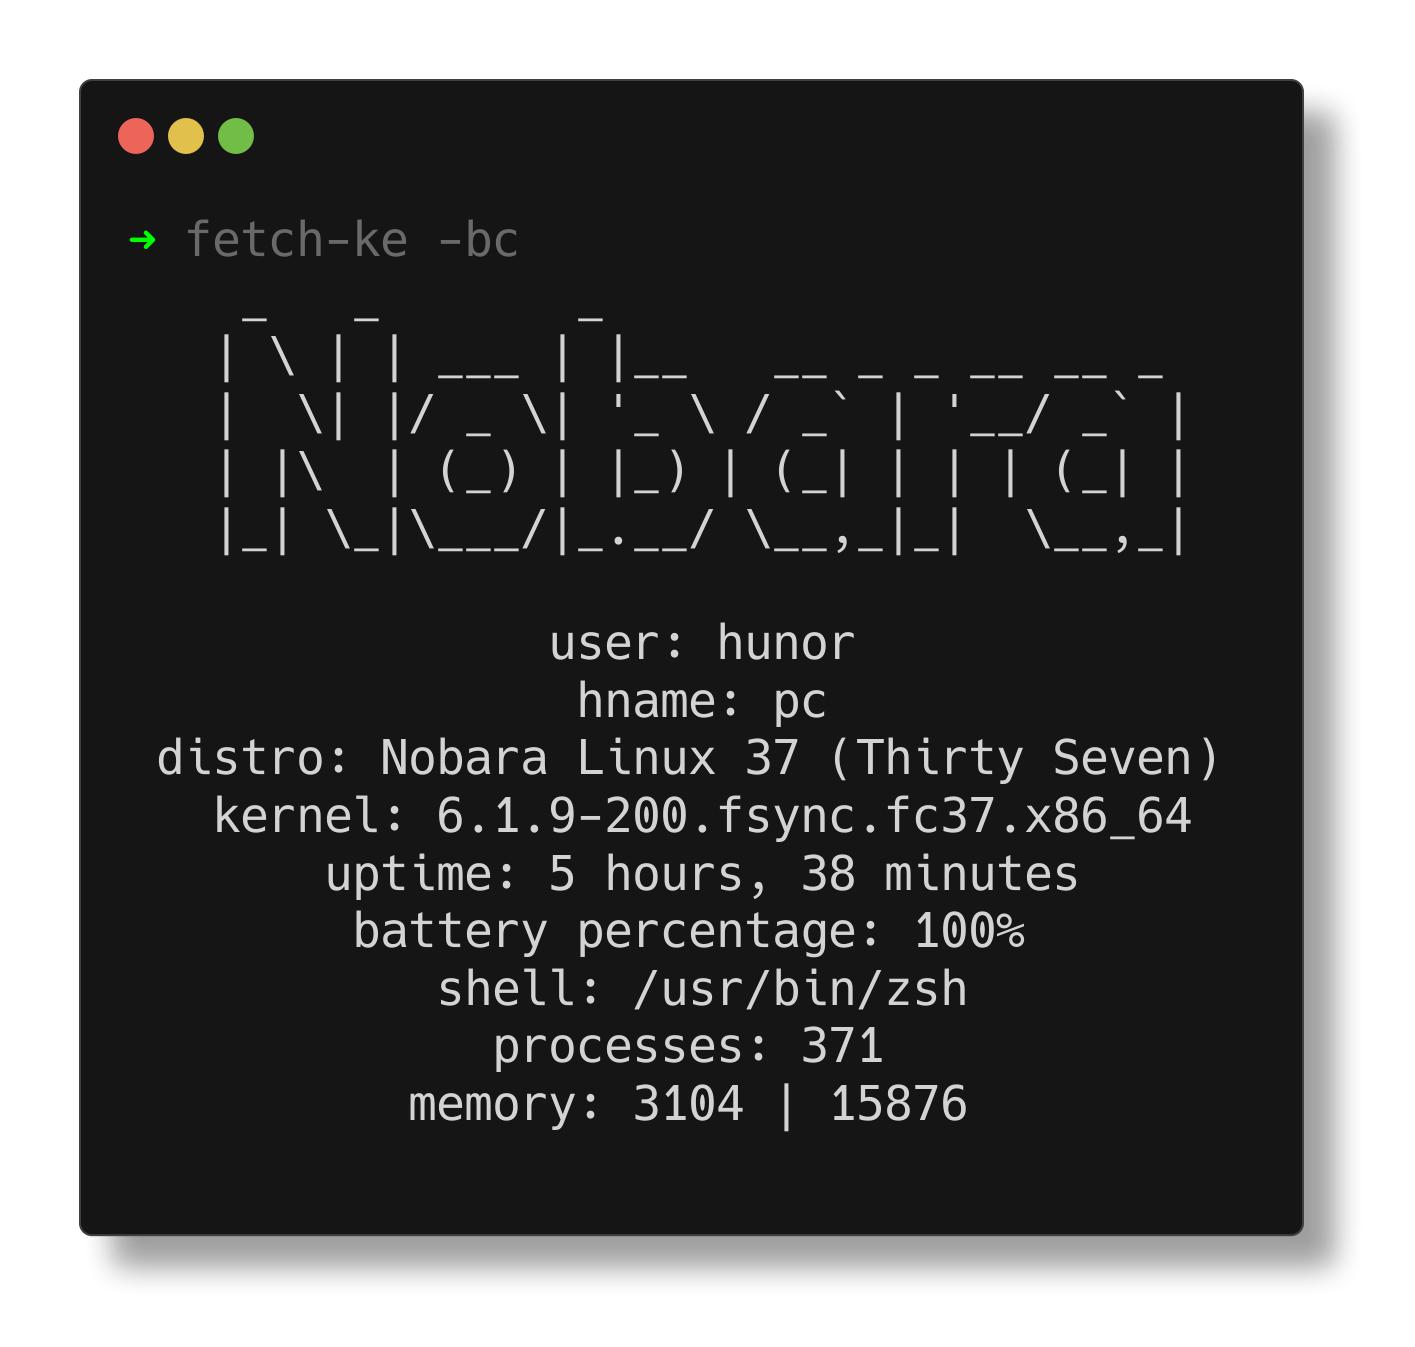
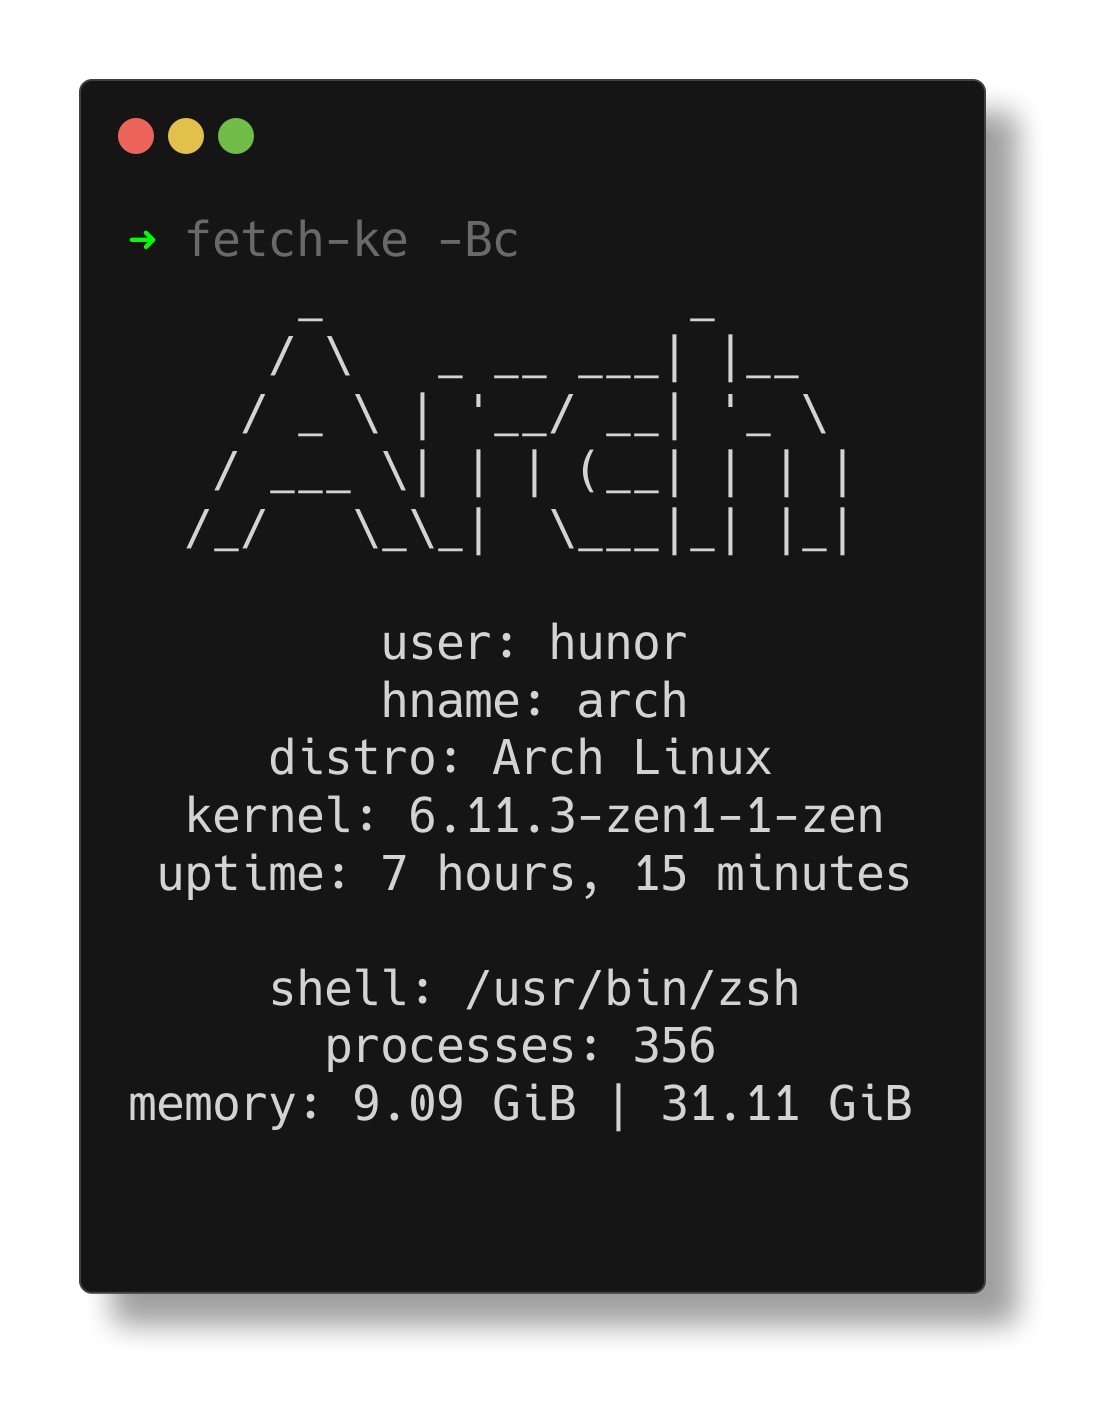
feat: updated readme and update script - v1.0.8

diff --git a/README.md b/README.md
@@ -7,15 +7,16 @@ The name comes from the Hungarian word <i>fecske</i> which means the bird `swall
 
 ## Tests
 
-| Distro                  | Result             |
-| ----------------------- | ------------------ |
-| Nobara / Fedora         | :heavy_check_mark: |
-| Debian                  | :heavy_check_mark: |
-| Ubuntu                  | :heavy_check_mark: |
-| Arch                    | :heavy_check_mark: |
-| Termux                  | :heavy_check_mark: |
-| Windows 10 / Windows 11 | :heavy_check_mark: |
-| WSL2                    | :heavy_check_mark: |
+| Distro                  | Latest supported version |
+| ----------------------- | ------------------------ |
+| Nobara / Fedora         | v.1.0.8                  |
+| Debian                  | v.1.0.8                  |
+| Ubuntu                  | v.1.0.8                  |
+| Arch                    | v.1.0.8                  |
+| Termux                  | v.1.0.8                  |
+| Windows 10 / Windows 11 | v.1.0.4                  |
+| WSL2                    | v.1.0.4                  |
+| macOS                   | :question:               |
 
 ## Dependencies
 
@@ -79,9 +80,9 @@ fetch-ke -F # disables figlet at start
 fetch-ke -U # checks for updates
 ```
 
-### Short battery display with `-b` flag
+### No battery display with `-B` flag
 
-![short battery](assets/short_battery.png?raw=true "short battery")
+![short battery](assets/no_battery.png?raw=true "short battery")
 
 ### No colors displayed with `-c` flag
 
